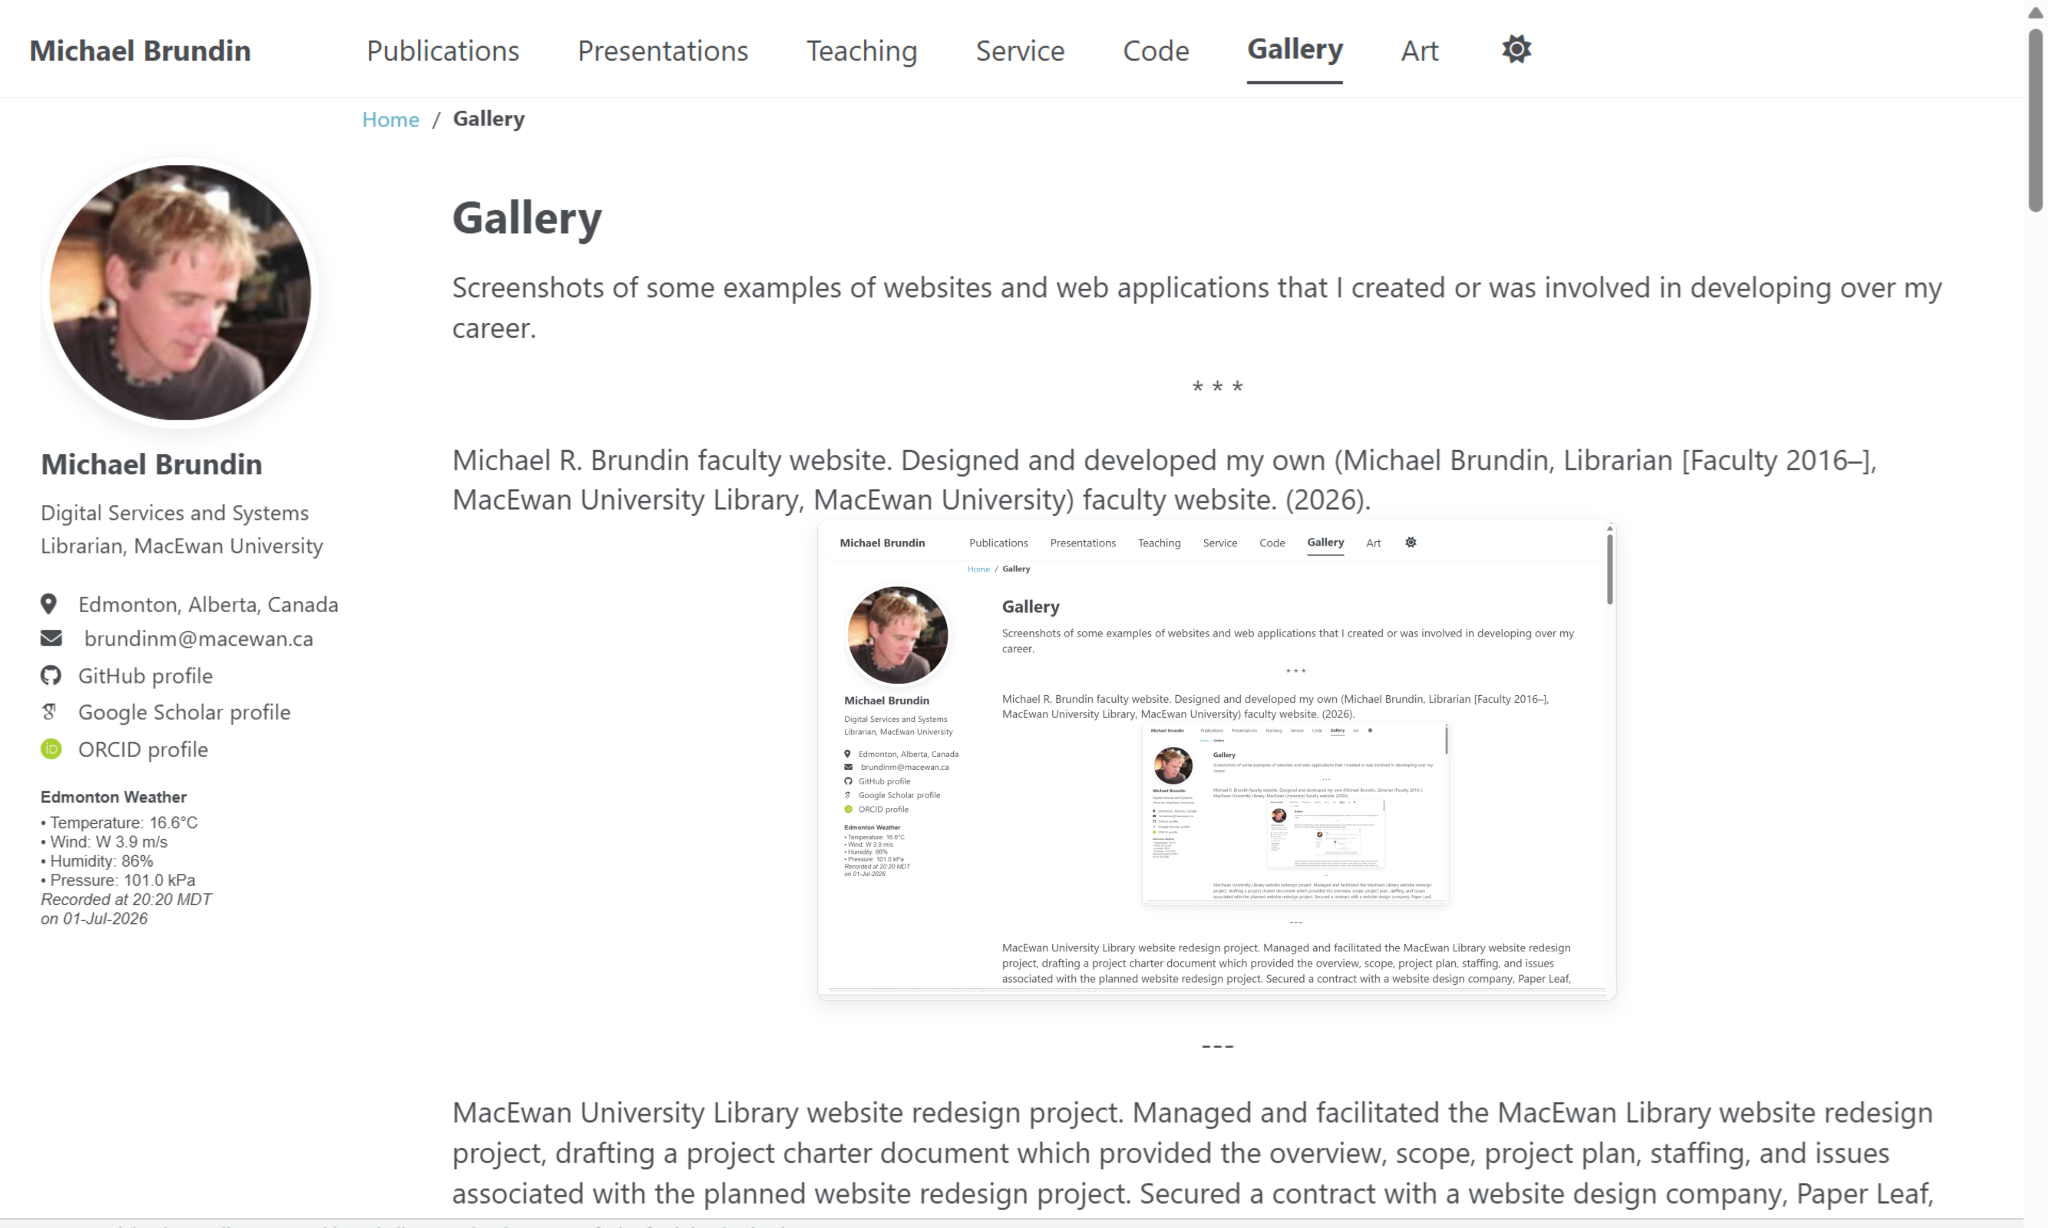
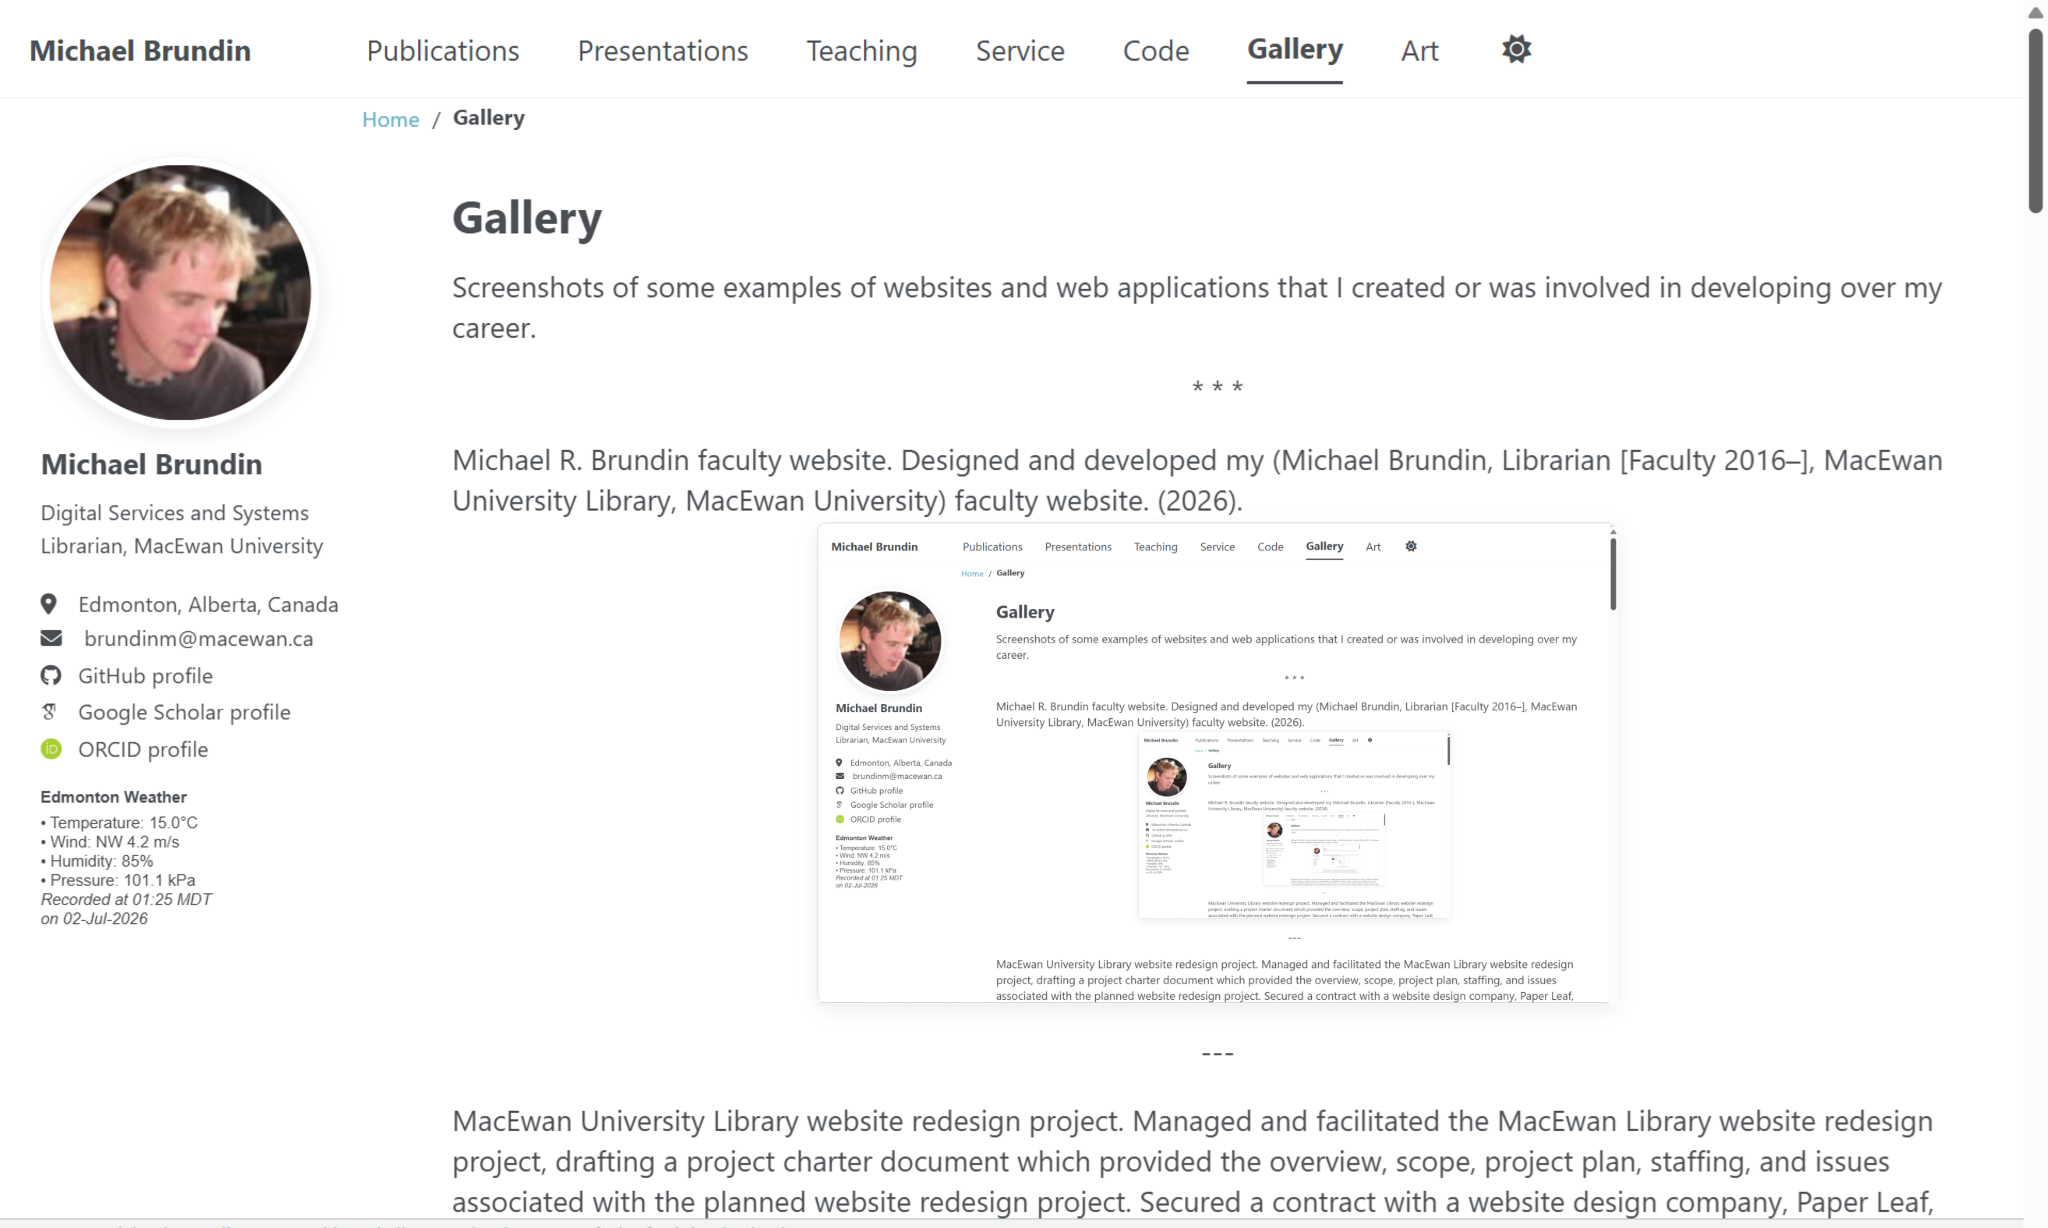
Code revisions

diff --git a/_pages/gallery.html b/_pages/gallery.html
@@ -46,6 +46,8 @@ img {
   display: block;
   margin-left: auto;
   margin-right: auto;
+  margin-top: -0.7em;
+  margin-bottom: 1em;
   position: relative;
   width: 100%;
   max-width: 500px;
@@ -75,6 +77,8 @@ img {
   display: block;
   margin-left: auto;
   margin-right: auto;
+  margin-top: -0.7em;
+  margin-bottom: 1em;
   position: relative;
   width: 100%;
   max-width: 500px;
@@ -123,12 +127,12 @@ dialog::backdrop {
 </p>
 
 <p>
-  Michael R. Brundin faculty website. Designed and developed my (Michael Brundin, Librarian [Faculty 2016&ndash;], MacEwan University Library, MacEwan University) faculty website. (2026).<br />
-  <div class="brundinm-container">
-    <img class="mbrundin" src="/images/brundinm.png" alt="Screenshot image of Michael Brundin's faculty website" width="500" height="300">
-    <img class="droste-effect" src="/images/brundinm-droste-effect.png" alt="Screenshot image of Michael Brundin's faculty website" width="500" height="300">
-  </div>
+  Michael R. Brundin faculty website. Designed and developed my (Michael Brundin, Librarian [Faculty 2016&ndash;], MacEwan University Library, MacEwan University) faculty website. (2026).
 </p>
+<div class="brundinm-container">
+  <img class="mbrundin" src="/images/brundinm.png" alt="Screenshot image of Michael Brundin's faculty website" width="500" height="300">
+  <img class="droste-effect" src="/images/brundinm-droste-effect.png" alt="Screenshot image of Michael Brundin's faculty website" width="500" height="300">
+</div>
 <p class="dinkus" role="separator" aria-label="Dinkus section break">
   ---
 </p>
@@ -185,16 +189,16 @@ dialog::backdrop {
   ---
 </p>
 <p>
-  University of Alberta Libraries Bindery Database. Designed and created a Microsoft Access and VBA bindery database application to automate the bindery process at the University of Alberta Libraries. In addition to the core workflow features needed to process print periodicals for shipment to the binderies to be bound, the Bindery Database also outputted lists of periodicals that were at the binderies for each unit library. These lists were available on the University of Alberta Libraries website for staff and patrons to consult, and the information contained in each list consisted of the following: title, enumeration (e.g., volume, year, pagination), and date the periodical was sent to the bindery. The University of Alberta Libraries Bindery Database was implemented in December 1997, and it is still in production 28 years later! (1997&ndash;2004)<br />
+  University of Alberta Libraries Bindery Database. Designed and created a Microsoft Access and VBA bindery database application to automate the bindery process at the University of Alberta Libraries. In addition to the core workflow features needed to process print periodicals for shipment to the binderies to be bound, the Bindery Database also outputted lists of periodicals that were at the binderies for each unit library. These lists were available on the University of Alberta Libraries website for staff and patrons to consult, and the information contained in each list consisted of the following: title, enumeration (e.g., volume, year, pagination), and date the periodical was sent to the bindery. The University of Alberta Libraries Bindery Database was implemented in December 1997, and it is still in production 28 years later! (1997&ndash;2004).<br />
   <img class="screenshot" src="/images/ual-binderies-hss.png" alt="Screenshot image of HSS periodicals at the binderies" width="500" height="300">
 </p>
 <p class="dinkus" role="separator" aria-label="Dinkus section break">
   ---
 </p>
 <p>
-  Experimental library catalog. Developed an experimental web-based library catalog for a reference book collection using Perl CGI scripts and SSI directives at the School of Library and Information Studies, University of Alberta. Reference collection catalog features included field-specific searching (title, author, subject), Boolean operator applied searching (AND, OR), and string phrase searching (exact query phrase); an experimental search interface to facilitate subject searching of the catalog by using a thesaurus of hyperlinked LCSH subject terms; and logging of both catalog web page visits as well as catalog search queries, thus making possible user activity analyses and transaction log analyses. (1997&ndash;1998).<br />
-  <div class="catalog-container">
-    <img class="verso" src="/images/library-catalog-verso.png" alt="Screenshot image of experimental library catalog" width="500" height="300">
-    <img class="recto" src="/images/library-catalog-recto.png" alt="Screenshot image of experimental library catalog" width="500" height="300">
-  </div>
+  Experimental library catalog. Developed an experimental web-based library catalog for a reference book collection using Perl CGI scripts and SSI directives at the School of Library and Information Studies, University of Alberta. Reference collection catalog features included field-specific searching (title, author, subject), Boolean operator applied searching (AND, OR), and string phrase searching (exact query phrase); an experimental search interface to facilitate subject searching of the catalog by using a thesaurus of hyperlinked LCSH subject terms; and logging of both catalog web page visits as well as catalog search queries, thus making possible user activity analyses and transaction log analyses. (1997&ndash;1998).
 </p>
+<div class="catalog-container">
+  <img class="verso" src="/images/library-catalog-verso.png" alt="Screenshot image of experimental library catalog" width="500" height="300">
+  <img class="recto" src="/images/library-catalog-recto.png" alt="Screenshot image of experimental library catalog" width="500" height="300">
+</div>
